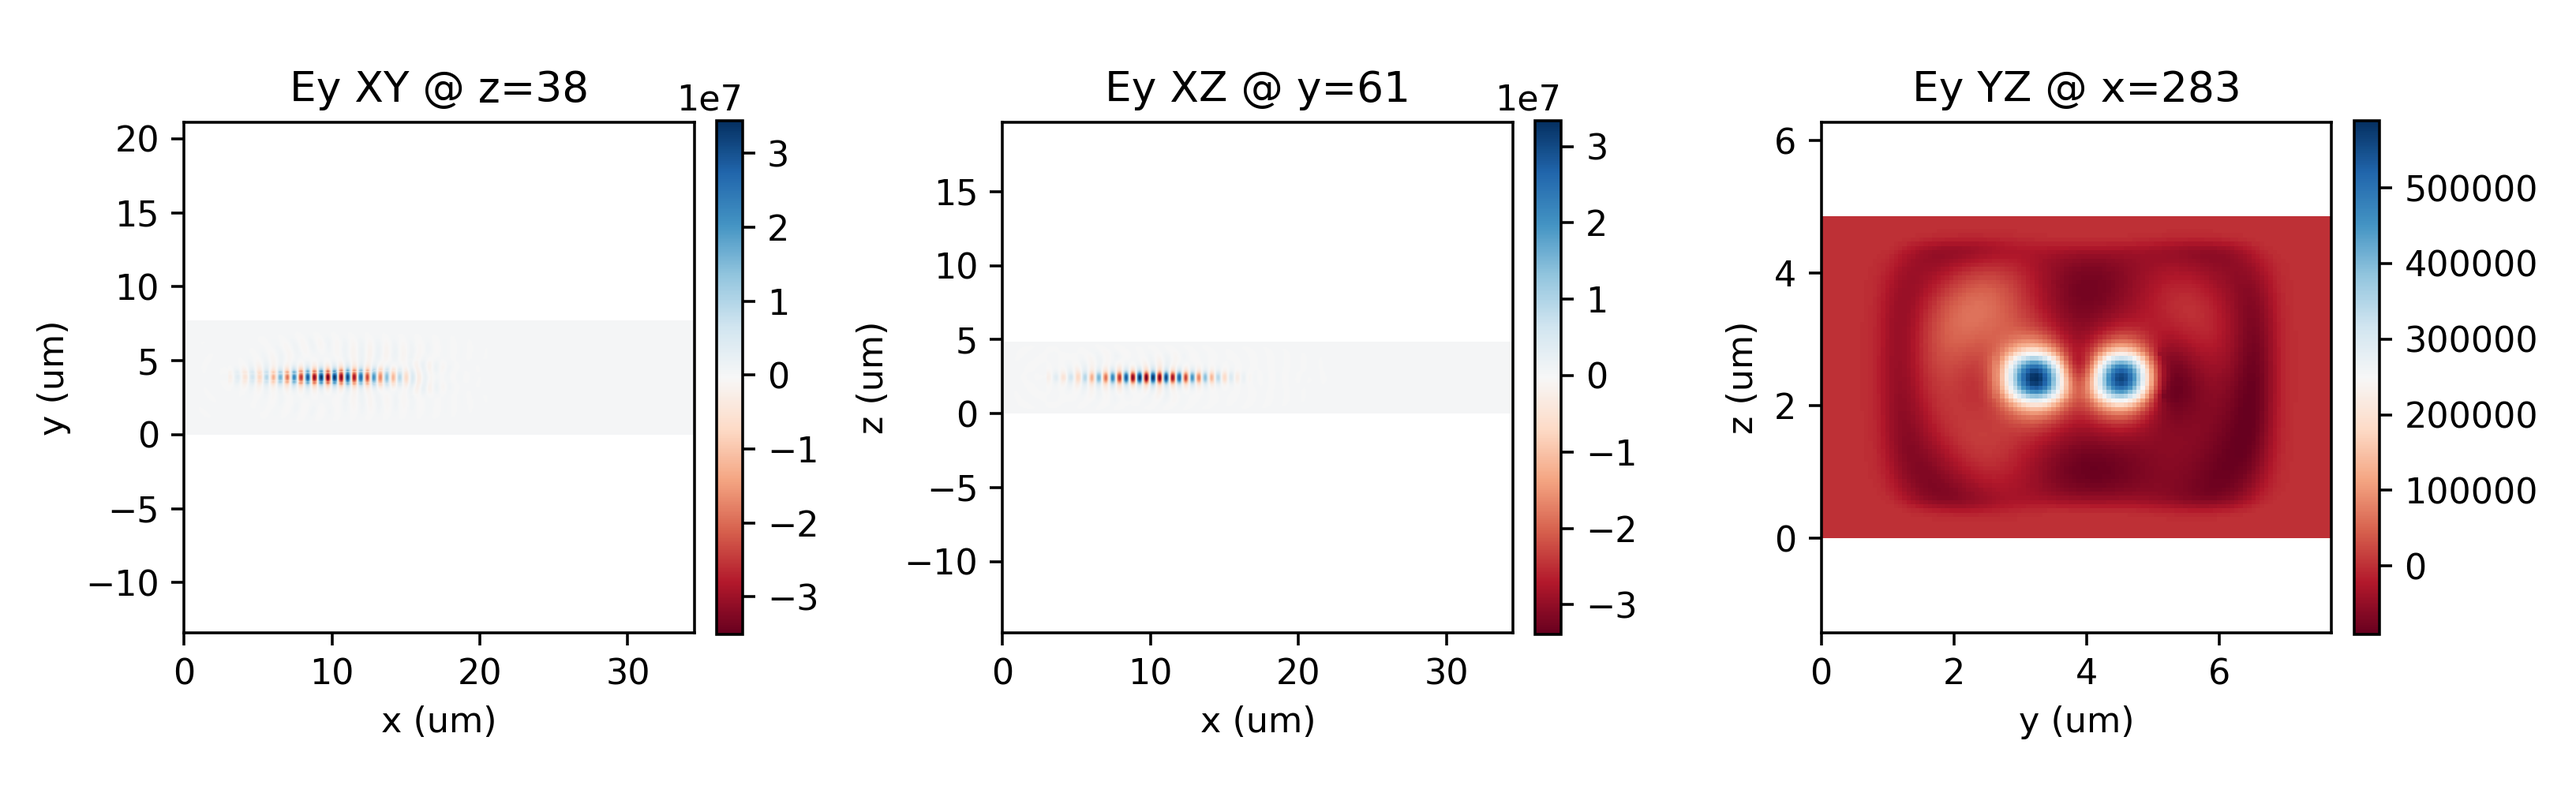
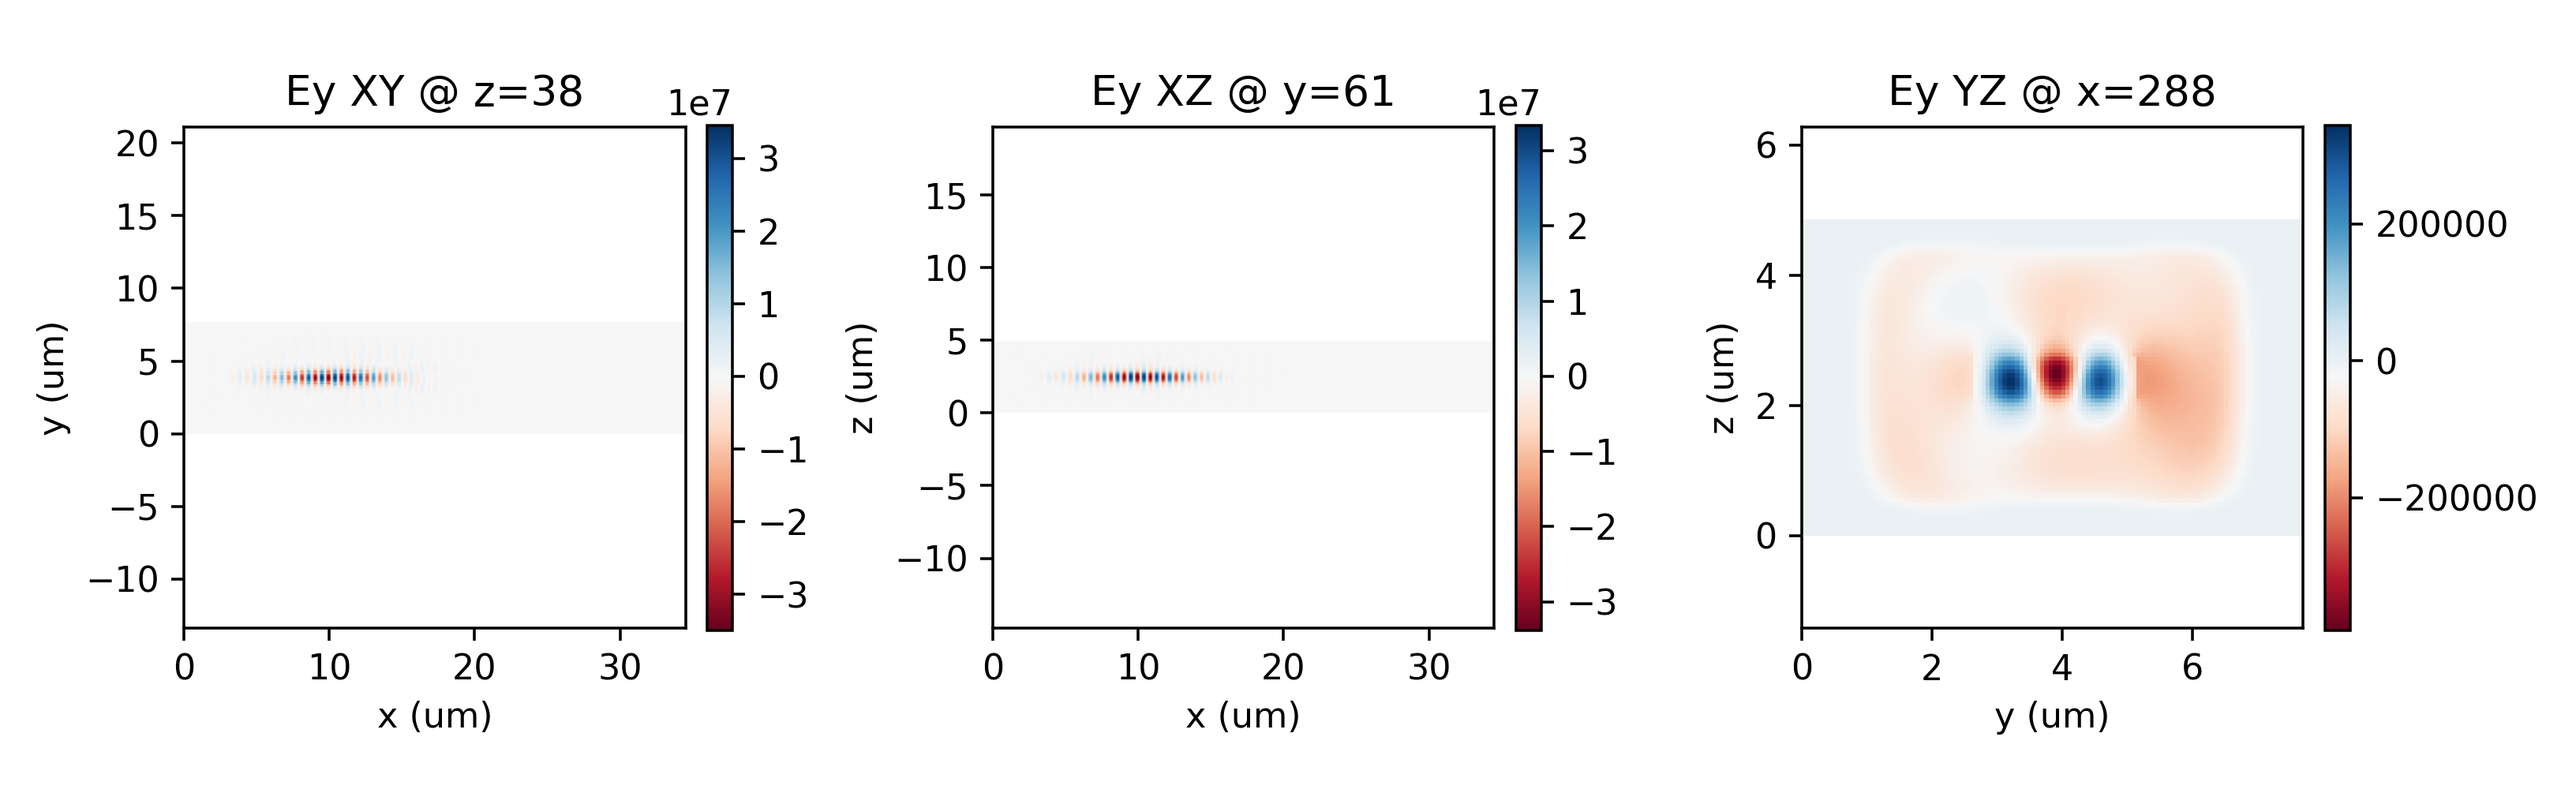
Update gdsf_to_sax_3d.py for enhanced DFT analysis and visualization
- Refactored directional_power_x function to accept frequency index for DFT component extraction.
- Introduced frequency sweep for DFT analysis with specified wavelength range.
- Updated monitor positioning and DFT frequency settings for improved simulation accuracy.
- Enhanced output diagnostics and added print statements for better clarity on DFT results.
- Adjusted S-parameter extraction to utilize modal DFT for more accurate results.
- Updated benchmark images reflecting changes in simulation outputs.

diff --git a/examples/gdsf_to_sax_3d.py b/examples/gdsf_to_sax_3d.py
@@ -55,13 +55,14 @@ def make_x_plane(x_pos, y_center, y_span, z_center, z_span, z_min, z_max):
     )
 
 
-def directional_power_x(monitor, dx, direction):
+def directional_power_x(monitor, *, dx, dy, dz, direction, freq_idx=0):
     sign = 1.0 if str(direction).strip() == "+x" else -1.0
-    ey = np.asarray(monitor.get_dft_component("Ey"), dtype=np.complex128)[0]
-    ez = np.asarray(monitor.get_dft_component("Ez"), dtype=np.complex128)[0]
-    hy = np.asarray(monitor.get_dft_component("Hy"), dtype=np.complex128)[0]
-    hz = np.asarray(monitor.get_dft_component("Hz"), dtype=np.complex128)[0]
-    s = 0.5 * np.sum(ey * np.conjugate(hz) - ez * np.conjugate(hy)) * (dx * dx)
+    ey = np.asarray(monitor.get_dft_component("Ey"), dtype=np.complex128)[int(freq_idx)]
+    ez = np.asarray(monitor.get_dft_component("Ez"), dtype=np.complex128)[int(freq_idx)]
+    hy = np.asarray(monitor.get_dft_component("Hy"), dtype=np.complex128)[int(freq_idx)]
+    hz = np.asarray(monitor.get_dft_component("Hz"), dtype=np.complex128)[int(freq_idx)]
+    del dx  # x-normal plane area is dy*dz
+    s = 0.5 * np.sum(ey * np.conjugate(hz) - ez * np.conjugate(hy)) * (dy * dz)
     return float(sign * np.real(s))
 
 
@@ -164,6 +165,10 @@ def main():
 
     wl0 = 1.55 * µm
     f0 = LIGHT_SPEED / wl0
+    wl_min = 1.50 * µm
+    wl_max = 1.60 * µm
+    nfreq = 31
+    freqs = np.linspace(LIGHT_SPEED / wl_max, LIGHT_SPEED / wl_min, nfreq, dtype=float)
 
     # Use moderate index contrast and resolution to keep this example lightweight.
     n_core, n_clad = 2.04, 1.444
@@ -301,7 +306,7 @@ def main():
     for name in ("o2", "o3"):
         p = ports[name]
         d_out = outward_direction(p["direction"])
-        mon_xy = move_along(p["center"], d_out, +0.4 * µm)
+        mon_xy = move_along(p["center"], d_out, +1.0 * µm)
         out_planes[name] = make_x_plane(
             mon_xy[0], mon_xy[1], mon_y_span, core_zc, mon_z_span, z_min, z_max
         )
@@ -351,7 +356,7 @@ def main():
     dft_cfg_common = dict(
         record_fields=False,
         dft_enabled=True,
-        dft_frequencies=[f0],
+        dft_frequencies=freqs,
         dft_components=("Ey", "Ez", "Hy", "Hz"),
         dft_window="hann",
         dft_record_every_step=True,
@@ -388,6 +393,11 @@ def main():
         f"domain=({design.width/µm:.2f},{design.height/µm:.2f},{design.depth/µm:.2f})um"
     )
     print(
+        "DFT freq sweep: "
+        f"{(LIGHT_SPEED/np.max(freqs))/µm:.4f}..{(LIGHT_SPEED/np.min(freqs))/µm:.4f} um "
+        f"({len(freqs)} points)"
+    )
+    print(
         "DFT windows (/f0): "
         f"fwd=[{dft_fwd_t_start*f0:.1f},{dft_fwd_t_end*f0:.1f}], "
         f"ref=[{dft_ref_t_start*f0:.1f},{dft_ref_t_end*f0:.1f}], "
@@ -417,6 +427,10 @@ def main():
         f"x_straight=[{x_straight_min/µm:.3f},{x_straight_max/µm:.3f}]um, "
         f"source_x={source_x/µm:.3f}um, fwd_x={fwd_x/µm:.3f}um, ref_x={ref_x/µm:.3f}um, "
         f"port_x={x_port/µm:.3f}um"
+    )
+    print(
+        "Port directions (gdsfactory): "
+        f"o1={ports['o1']['direction']}, o2={ports['o2']['direction']}, o3={ports['o3']['direction']}"
     )
     src_x, src_y, src_z = source.center
     src_inside_non_pml = (
@@ -471,70 +485,126 @@ def main():
         progress=False,
     )
 
-    specs = [
-        PortSpec(name="o1_fwd", monitor_name="o1_fwd", direction=src["direction"], polarization="te"),
-        PortSpec(name="o1_ref", monitor_name="o1_ref", direction=src["direction"], polarization="te"),
-        PortSpec(name="o2_out", monitor_name="o2_out", direction=ports["o2"]["direction"], polarization="te"),
-        PortSpec(name="o3_out", monitor_name="o3_out", direction=ports["o3"]["direction"], polarization="te"),
+    # Use explicit source/reference modal S extraction so incident/outgoing waves
+    # are selected by the framework convention rather than magnitude heuristics.
+    outward_specs = [
+        PortSpec(
+            name="o1",
+            monitor_name="o1_ref",
+            reference_monitor="o1_fwd",
+            direction=outward_direction(src["direction"]),
+            polarization="te",
+        ),
+        PortSpec(
+            name="o2",
+            monitor_name="o2_out",
+            direction=outward_direction(ports["o2"]["direction"]),
+            polarization="te",
+        ),
+        PortSpec(
+            name="o3",
+            monitor_name="o3_out",
+            direction=outward_direction(ports["o3"]["direction"]),
+            polarization="te",
+        ),
     ]
-    waves = sim.extract_port_waves_dft(ports=specs, frequencies=[f0], return_power=True)
+    s_dft = sim.get_S_matrix_modal_dft(
+        source_port="o1",
+        ports=outward_specs,
+        output_ports=["o1", "o2", "o3"],
+        frequencies=freqs,
+        as_sax=False,
+        return_diagnostics=True,
+        min_incident_db=-35.0,
+    )
+    s_matrix = s_dft["s_matrix"]
+    diagnostics = s_dft["diagnostics"]
+    waves = diagnostics["waves"]
 
-    a_fwd_plus = complex(np.asarray(waves["o1_fwd"]["a_plus"], dtype=np.complex128)[0])
-    a_fwd_minus = complex(np.asarray(waves["o1_fwd"]["a_minus"], dtype=np.complex128)[0])
-    if abs(a_fwd_plus) >= abs(a_fwd_minus):
-        inc_key, opp_key, a_incident = "a_plus", "a_minus", a_fwd_plus
-    else:
-        inc_key, opp_key, a_incident = "a_minus", "a_plus", a_fwd_minus
+    s11_spec = np.asarray(s_matrix[("o1", "o1")], dtype=np.complex128)
+    s21_spec = np.asarray(s_matrix[("o2", "o1")], dtype=np.complex128)
+    s31_spec = np.asarray(s_matrix[("o3", "o1")], dtype=np.complex128)
+    valid_mask = np.asarray(diagnostics.get("valid_mask", np.ones_like(freqs, dtype=bool)), dtype=bool)
 
-    denom = max(abs(a_incident), 1e-30)
-    s11 = complex(np.asarray(waves["o1_ref"][opp_key], dtype=np.complex128)[0] / denom)
-    s21 = complex(np.asarray(waves["o2_out"][opp_key], dtype=np.complex128)[0] / denom)
-    s31 = complex(np.asarray(waves["o3_out"][opp_key], dtype=np.complex128)[0] / denom)
-
-    p11 = abs(s11) ** 2
-    p21 = abs(s21) ** 2
-    p31 = abs(s31) ** 2
-    closure = p11 + p21 + p31
-    split_sum = max(p21 + p31, 1e-30)
-    split_o2 = p21 / split_sum
-    split_o3 = p31 / split_sum
-    balance_db = abs(
-        20.0 * np.log10(max(abs(s21), 1e-12)) - 20.0 * np.log10(max(abs(s31), 1e-12))
+    p11_spec = np.abs(s11_spec) ** 2
+    p21_spec = np.abs(s21_spec) ** 2
+    p31_spec = np.abs(s31_spec) ** 2
+    closure_spec = p11_spec + p21_spec + p31_spec
+    split_sum_spec = np.maximum(p21_spec + p31_spec, 1e-30)
+    split_o2_spec = p21_spec / split_sum_spec
+    split_o3_spec = p31_spec / split_sum_spec
+    balance_db_spec = np.abs(
+        20.0 * np.log10(np.maximum(np.abs(s21_spec), 1e-12))
+        - 20.0 * np.log10(np.maximum(np.abs(s31_spec), 1e-12))
     )
 
-    p_in_flux = directional_power_x(m_in_flux, dx=dx, direction="+x")
-    p_ref_flux = directional_power_x(m_ref_flux, dx=dx, direction="-x")
-    p_out_flux = directional_power_x(m_out_flux, dx=dx, direction="+x")
+    wl_spec = LIGHT_SPEED / freqs
+    wl0_idx = int(np.argmin(np.abs(wl_spec - wl0)))
+    wl_c = float(wl_spec[wl0_idx])
+    s11 = complex(s11_spec[wl0_idx])
+    s21 = complex(s21_spec[wl0_idx])
+    s31 = complex(s31_spec[wl0_idx])
+    p11 = float(p11_spec[wl0_idx])
+    p21 = float(p21_spec[wl0_idx])
+    p31 = float(p31_spec[wl0_idx])
+    closure = float(closure_spec[wl0_idx])
+    split_o2 = float(split_o2_spec[wl0_idx])
+    split_o3 = float(split_o3_spec[wl0_idx])
+    balance_db = float(balance_db_spec[wl0_idx])
+    a_fwd_plus = np.asarray(waves["o1"]["a_plus"], dtype=np.complex128)
+    a_fwd_minus = np.asarray(waves["o1"]["a_minus"], dtype=np.complex128)
+    a_incident = np.asarray(waves["o1"].get("a_incident", a_fwd_plus), dtype=np.complex128)
+    a_incident_c = complex(a_incident[wl0_idx])
+    a_fwd_plus_c = complex(a_fwd_plus[wl0_idx])
+    a_fwd_minus_c = complex(a_fwd_minus[wl0_idx])
+
+    p_in_flux = directional_power_x(m_in_flux, dx=dx, dy=dx, dz=dx, direction="+x", freq_idx=wl0_idx)
+    p_ref_flux = directional_power_x(m_ref_flux, dx=dx, dy=dx, dz=dx, direction="-x", freq_idx=wl0_idx)
+    p_out_flux = directional_power_x(m_out_flux, dx=dx, dy=dx, dz=dx, direction="+x", freq_idx=wl0_idx)
     p_in_abs = max(abs(p_in_flux), 1e-30)
     flux_closure_signed = (p_ref_flux + p_out_flux) / p_in_abs
     flux_closure_unsigned = (abs(p_ref_flux) + abs(p_out_flux)) / p_in_abs
 
     print(
-        f"S11 @ {wl0/µm:.4f}um: |S11|={abs(s11):.6f}, "
+        f"S11 @ {wl_c/µm:.4f}um: |S11|={abs(s11):.6f}, "
         f"{20*np.log10(max(abs(s11),1e-12)):.2f} dB"
     )
     print(
-        f"S21 @ {wl0/µm:.4f}um: |S21|={abs(s21):.6f}, "
+        f"S21 @ {wl_c/µm:.4f}um: |S21|={abs(s21):.6f}, "
         f"{20*np.log10(max(abs(s21),1e-12)):.2f} dB"
     )
     print(
-        f"S31 @ {wl0/µm:.4f}um: |S31|={abs(s31):.6f}, "
+        f"S31 @ {wl_c/µm:.4f}um: |S31|={abs(s31):.6f}, "
         f"{20*np.log10(max(abs(s31),1e-12)):.2f} dB"
     )
     print(
         f"Modal closure: {closure:.6f}, split o2/o3={split_o2:.3f}/{split_o3:.3f}, "
         f"balance={balance_db:.3f} dB"
     )
+    source_out_dir = outward_direction(src["direction"])
     print(
-        "Incident-wave normalization: "
-        f"inc_key={inc_key}, |a_plus_fwd|={abs(a_fwd_plus):.3e}, "
-        f"|a_minus_fwd|={abs(a_fwd_minus):.3e}, |a_inc|={abs(a_incident):.3e}"
+        "Wave convention check: "
+        f"src_dir={src['direction']}, src_outward={source_out_dir}, "
+        f"|a_plus_ref|={abs(a_fwd_plus_c):.3e}, |a_minus_ref|={abs(a_fwd_minus_c):.3e}, "
+        f"|a_inc|={abs(a_incident_c):.3e}"
     )
     print(
         "Wide-plane flux closure: "
         f"signed={flux_closure_signed:.6f}, unsigned={flux_closure_unsigned:.6f} "
         f"(R={p_ref_flux/p_in_abs:.6f}, T={p_out_flux/p_in_abs:.6f})"
     )
+    valid_idx = np.where(valid_mask)[0]
+    if valid_idx.size > 0:
+        p_sum_valid = np.asarray(closure_spec[valid_idx], dtype=float)
+        s21_db = 20.0 * np.log10(np.maximum(np.abs(s21_spec[valid_idx]), 1e-12))
+        s31_db = 20.0 * np.log10(np.maximum(np.abs(s31_spec[valid_idx]), 1e-12))
+        print(
+            "Sweep summary: "
+            f"valid={valid_idx.size}/{len(freqs)}, "
+            f"closure[min,max]=[{np.nanmin(p_sum_valid):.3f},{np.nanmax(p_sum_valid):.3f}], "
+            f"S21[dB min,max]=[{np.nanmin(s21_db):.2f},{np.nanmax(s21_db):.2f}], "
+            f"S31[dB min,max]=[{np.nanmin(s31_db):.2f},{np.nanmax(s31_db):.2f}]"
+        )
 
     eps = np.asarray(grid.permittivity, dtype=float)
     z_idx = int(np.clip(round(core_zc / dx), 0, eps.shape[0] - 1))
@@ -583,28 +653,34 @@ def main():
     )
     ax[0, 0].text(src_x / µm, (src_y + 0.5 * source.width) / µm + 0.04, "source", color="red", fontsize=7, ha="center")
 
-    labels = ["|S11|^2", "|S21|^2", "|S31|^2", "closure"]
-    vals = [p11, p21, p31, closure]
-    colors = ["black", "tab:blue", "tab:green", "tab:red"]
-    ax[0, 1].bar(labels, vals, color=colors, alpha=0.88)
-    ax[0, 1].axhline(1.0, color="k", ls="--", lw=1.0, alpha=0.7)
+    wl_um = wl_spec / µm
+    order = np.argsort(wl_um)
+    ax[0, 1].plot(wl_um[order], p11_spec[order], "o-", color="black", lw=1.4, label="|S11|^2")
+    ax[0, 1].plot(wl_um[order], p21_spec[order], "o-", color="tab:blue", lw=1.4, label="|S21|^2")
+    ax[0, 1].plot(wl_um[order], p31_spec[order], "o-", color="tab:green", lw=1.4, label="|S31|^2")
+    ax[0, 1].plot(wl_um[order], closure_spec[order], color="tab:red", lw=1.2, ls="--", label="closure")
+    ax[0, 1].axhline(1.0, color="k", ls=":", lw=1.0, alpha=0.75)
+    ax[0, 1].axvline(wl0 / µm, color="gray", ls="--", lw=0.9, alpha=0.8)
+    ax[0, 1].set_xlabel("wavelength (um)")
     ax[0, 1].set_ylabel("Power")
-    ax[0, 1].set_title("Modal DFT Metrics")
-    ax[0, 1].grid(axis="y", alpha=0.25)
+    ax[0, 1].set_title("Modal DFT Spectrum")
+    ax[0, 1].grid(alpha=0.25)
+    ax[0, 1].legend(fontsize=7, loc="best")
 
     ax[1, 0].axis("off")
     ax[1, 0].text(
         0.02,
         0.96,
         (
-            f"MMI1x2 3D @ {wl0/µm:.4f} um\n"
+            f"MMI1x2 3D @ {wl_c/µm:.4f} um (center)\n"
+            f"sweep = {wl_min/µm:.4f}..{wl_max/µm:.4f} um ({len(freqs)} pts)\n"
             f"|S11| = {abs(s11):.6f}\n"
             f"|S21| = {abs(s21):.6f}\n"
             f"|S31| = {abs(s31):.6f}\n"
             f"closure = {closure:.6f}\n"
             f"flux signed/unsigned = {flux_closure_signed:.3f}/{flux_closure_unsigned:.3f}\n"
             f"split o2/o3 = {split_o2:.3f}/{split_o3:.3f}\n"
-            f"inc_key={inc_key}, |a_inc|={abs(a_incident):.3e}\n"
+            f"src_outward={source_out_dir}, |a_inc|={abs(a_incident_c):.3e}\n"
             f"dx={dx/µm:.4f} um, steps={len(time)}"
         ),
         va="top",
